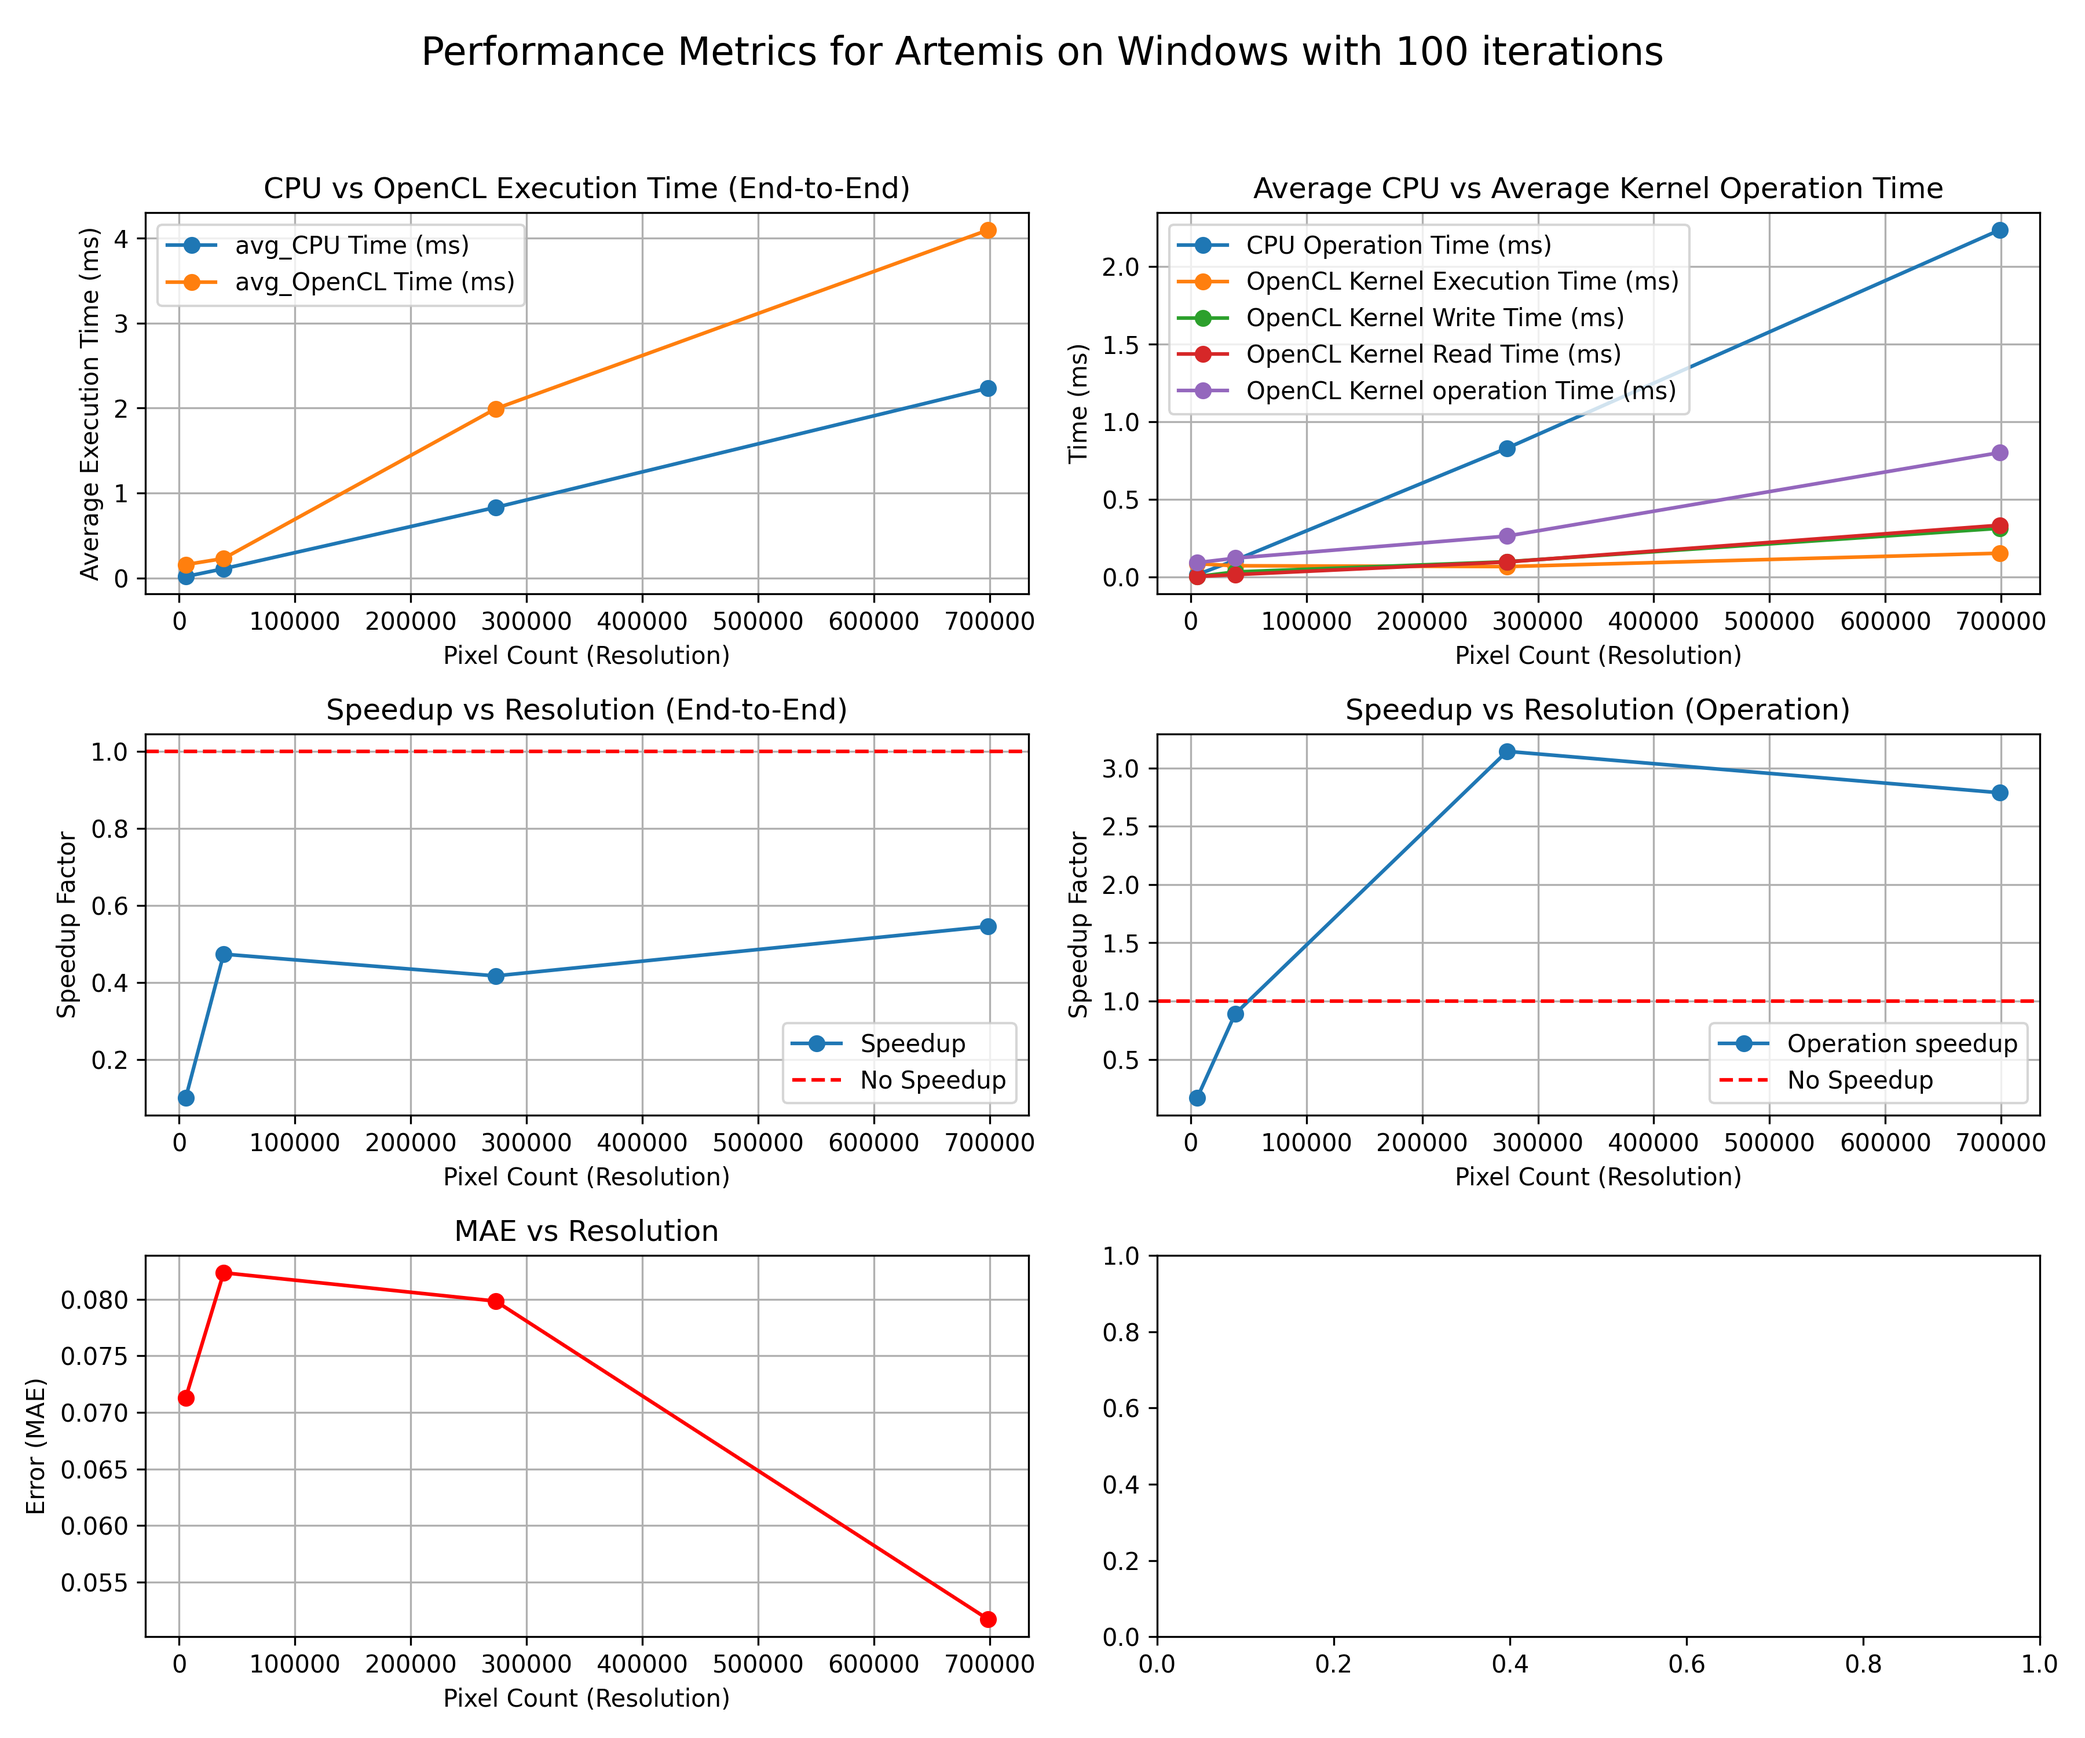
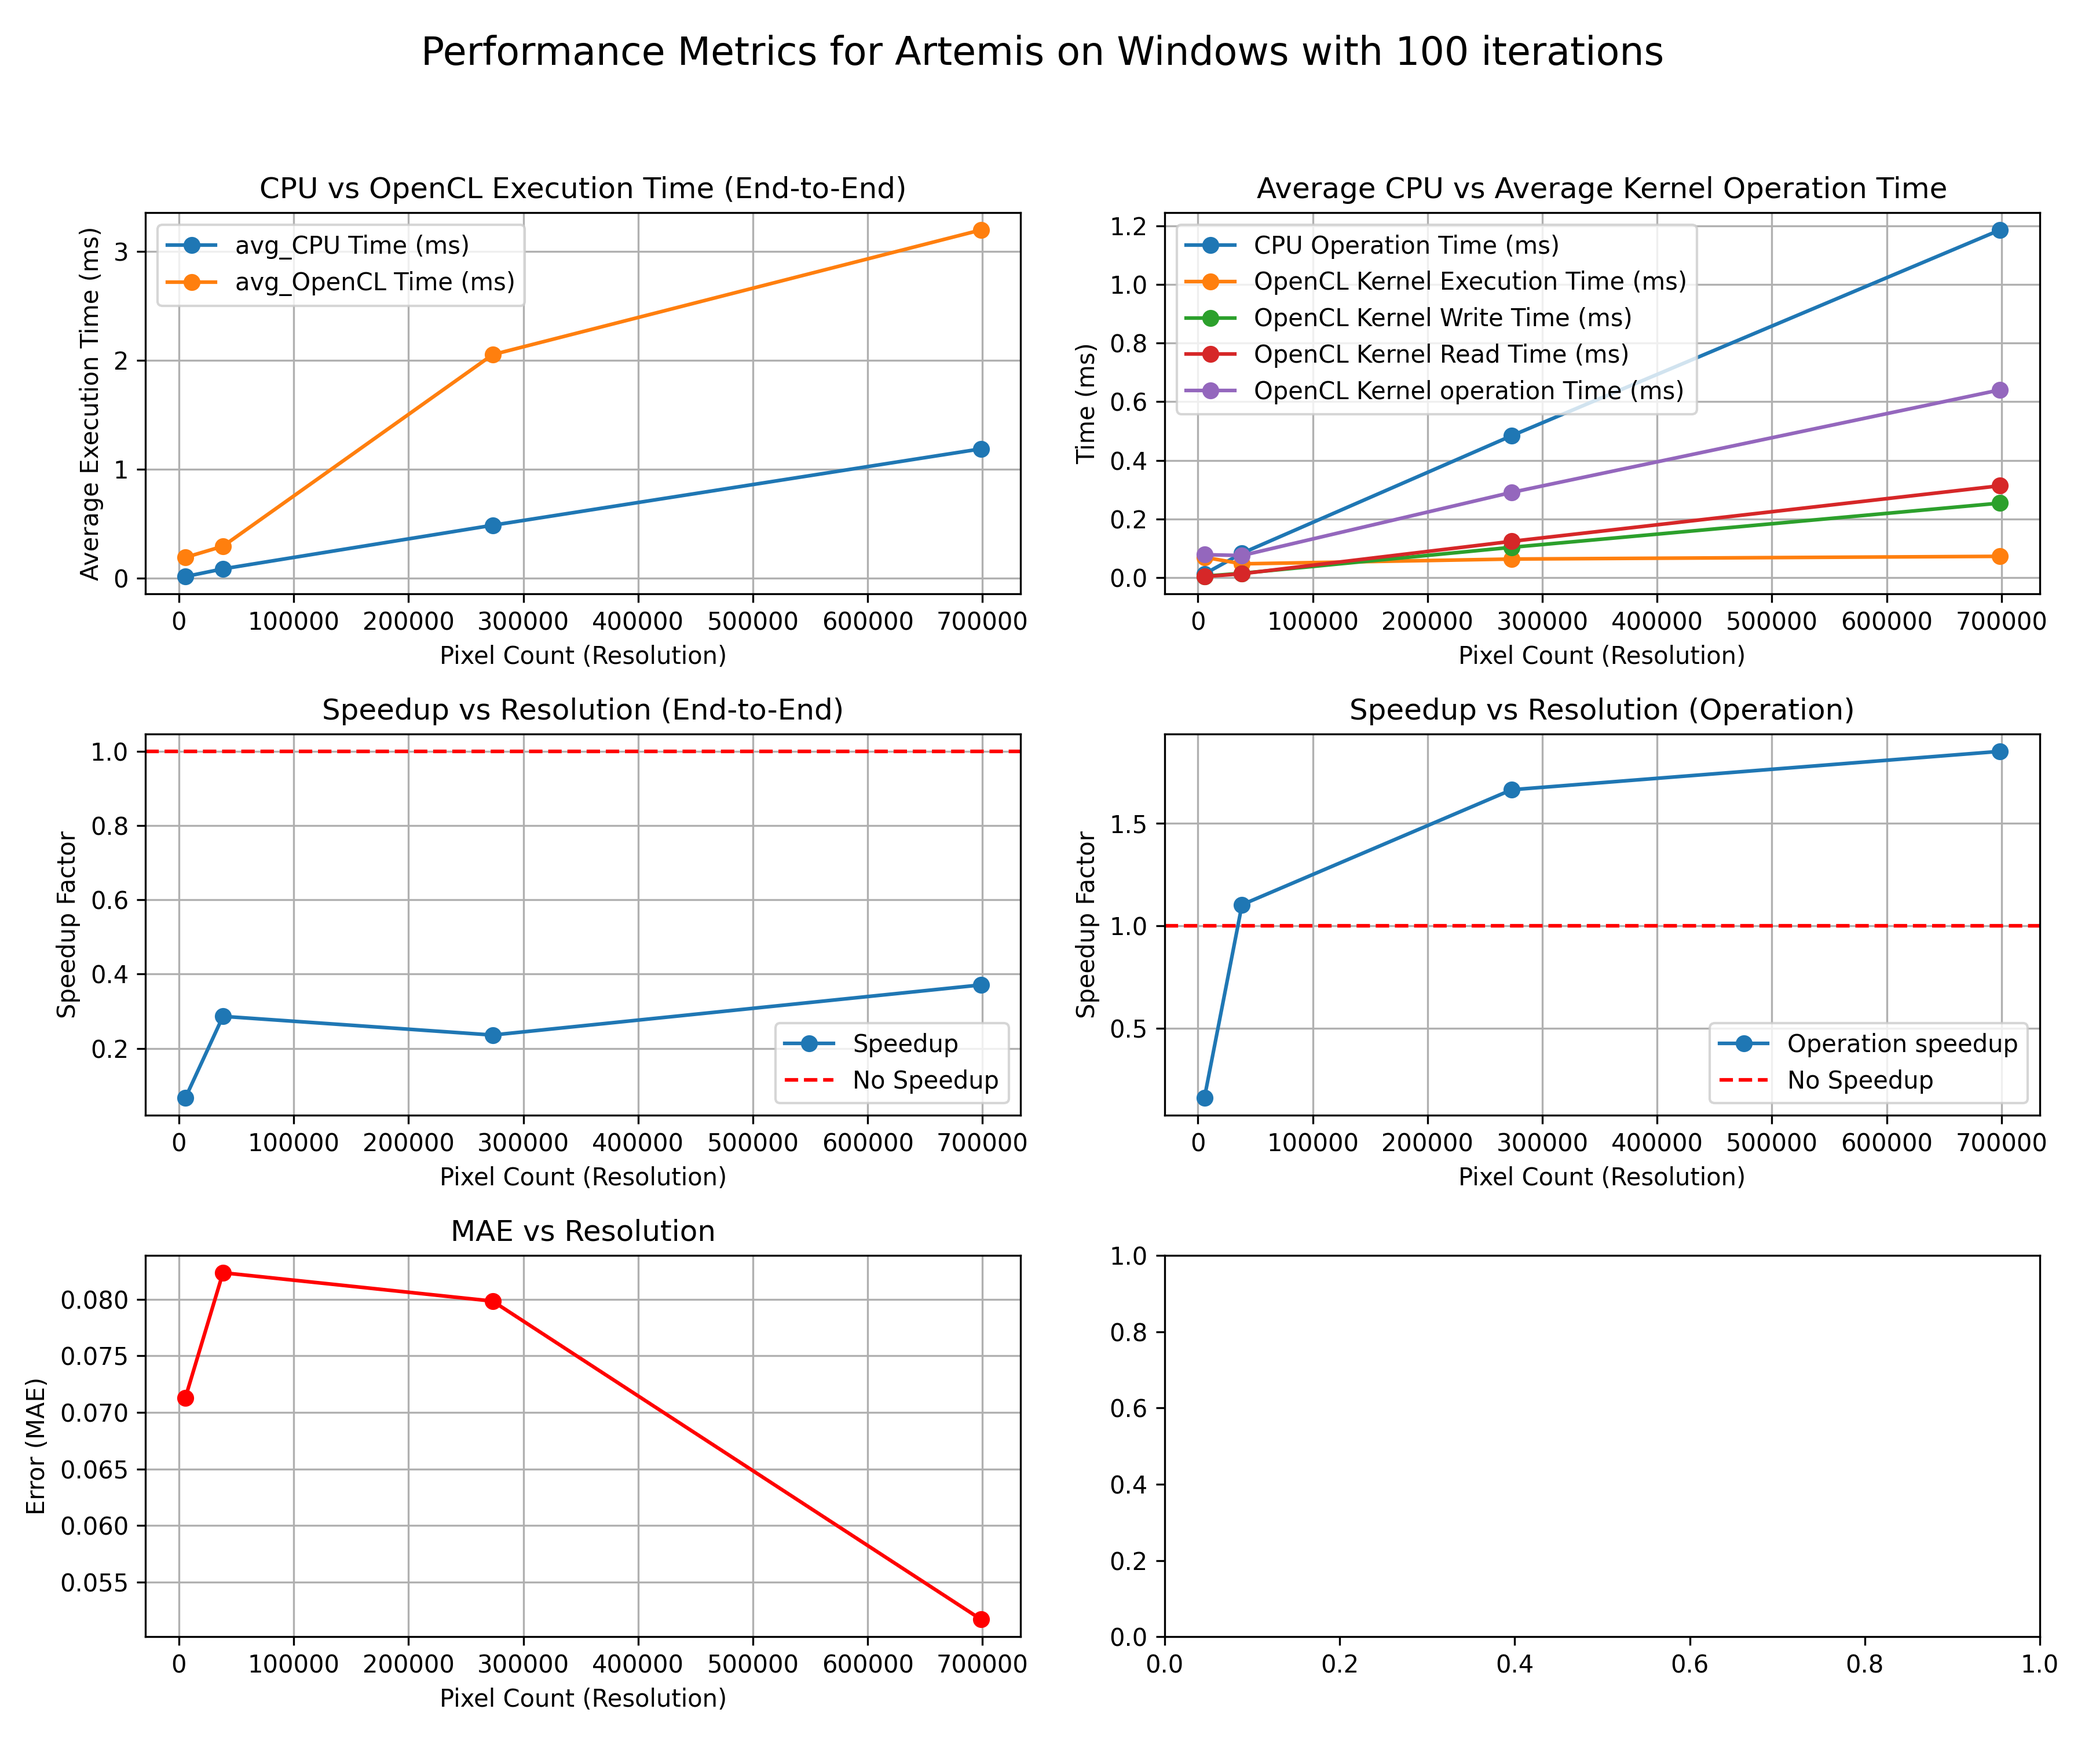
performed cleanup on grayscale

diff --git a/src/EdgeDetection/EdgeDetection.cpp b/src/EdgeDetection/EdgeDetection.cpp
@@ -8,7 +8,7 @@
 
 // CONSTANTS
 #define PLATFORM_INDEX 0
-#define DEVICE_INDEX 1
+#define DEVICE_INDEX 0
 
 int NUMBER_OF_ITERATIONS = 100;
 

diff --git a/src/GaussianBlur/GaussianBlur.cpp b/src/GaussianBlur/GaussianBlur.cpp
@@ -8,7 +8,7 @@
 
 // CONSTANTS
 #define PLATFORM_INDEX 0
-#define DEVICE_INDEX 1
+#define DEVICE_INDEX 0
 
 int NUMBER_OF_ITERATIONS = 100;
 

diff --git a/src/Grayscale/grayscale.cpp b/src/Grayscale/grayscale.cpp
@@ -8,7 +8,7 @@
 
 // CONSTANTS
 #define PLATFORM_INDEX 0
-#define DEVICE_INDEX 1
+#define DEVICE_INDEX 0
 
 int NUMBER_OF_ITERATIONS = 100;
 

diff --git a/src/Grayscale/results/visualisation.py b/src/Grayscale/results/visualisation.py
@@ -4,7 +4,7 @@ import matplotlib.pyplot as plt
 
 # 0 - Linux
 # 1 - Windows
-USING_OS = 0
+USING_OS = 1
 
 # 0 - Debug
 # 1- Release
